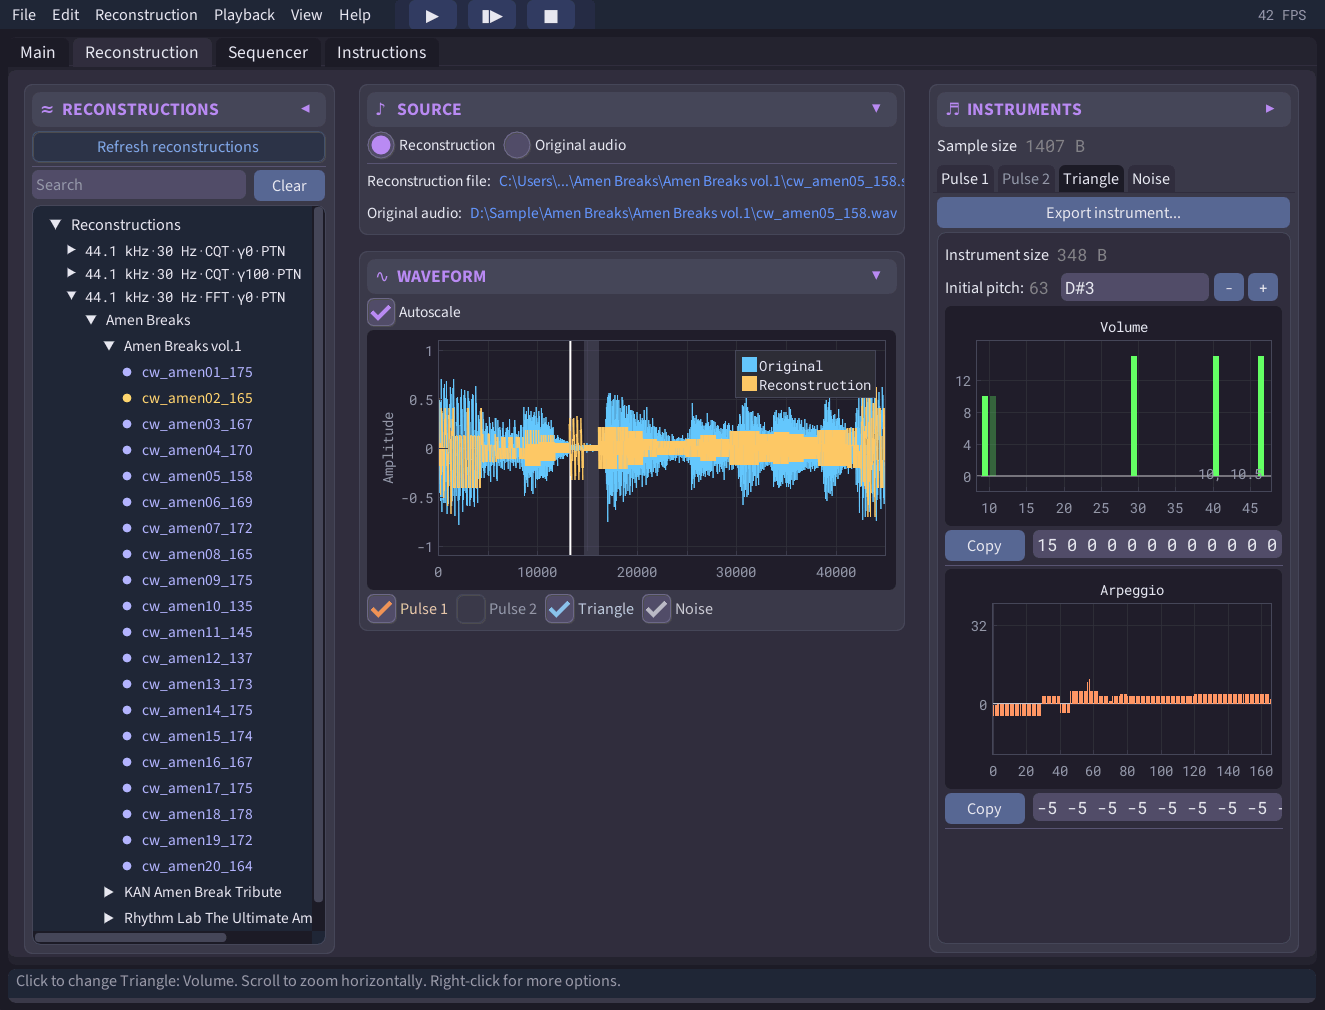
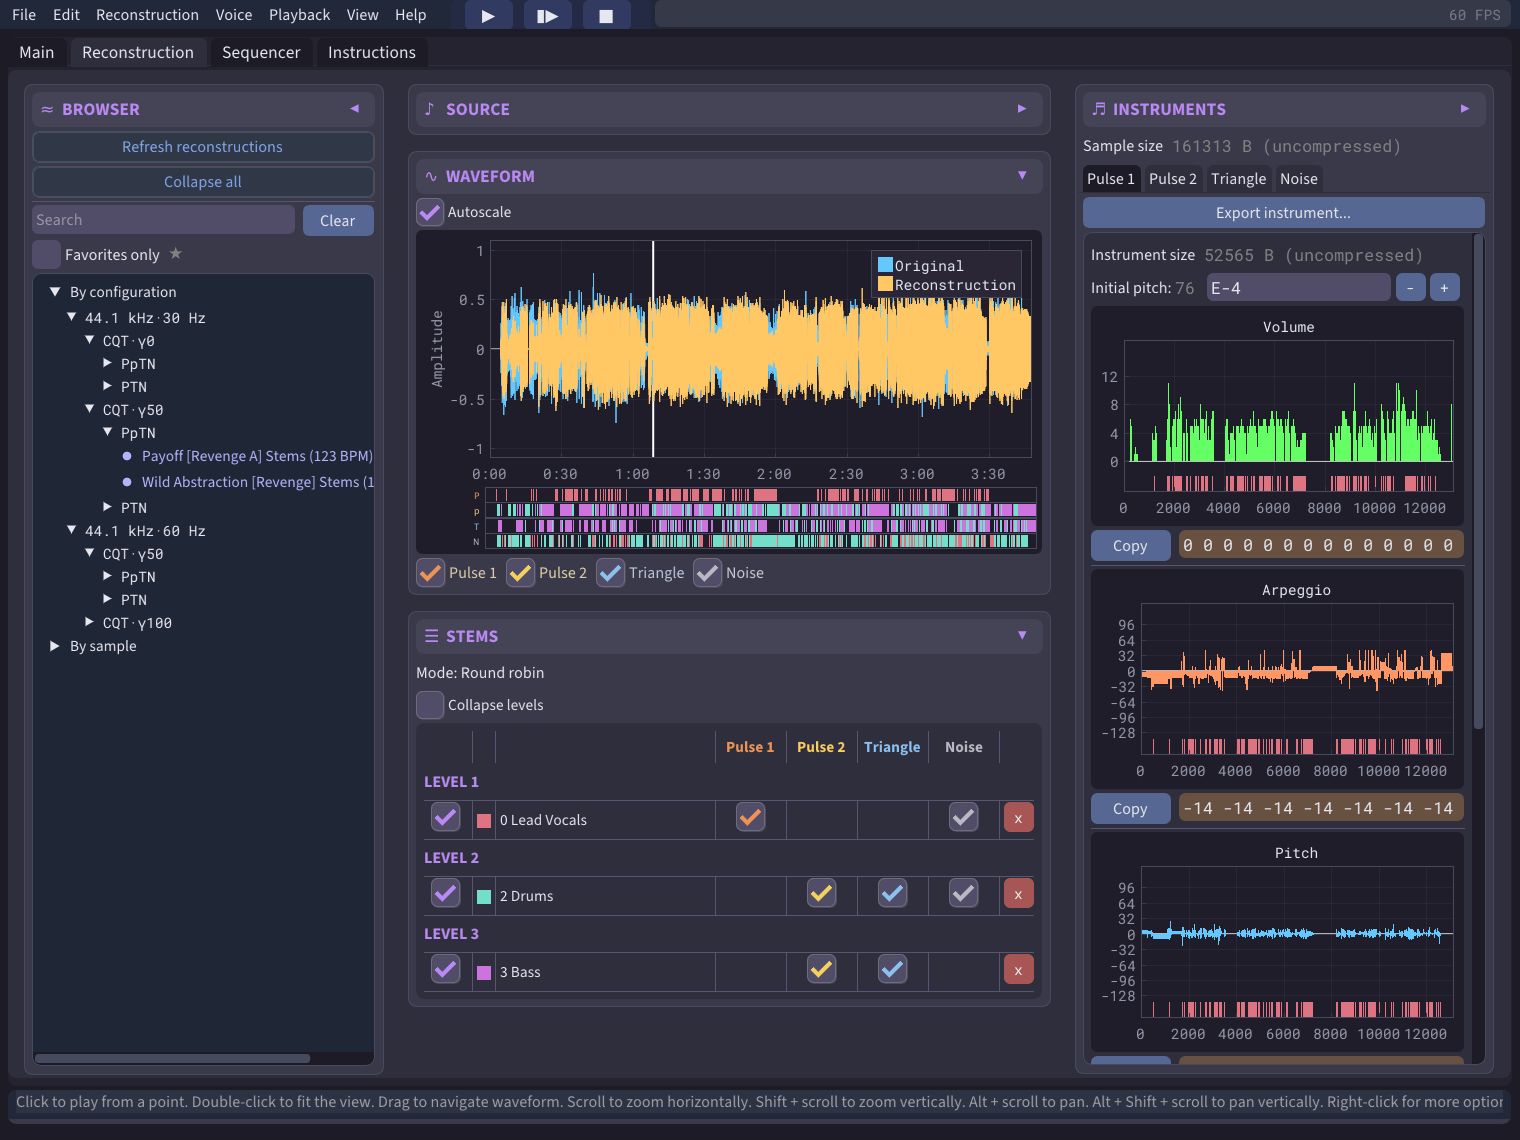
Updated: image

diff --git a/README.md b/README.md
@@ -14,7 +14,7 @@
 _SampleToNES_ (`sampletones`) is a desktop tool for people writing music for the NES 2A03 sound chip, mainly in [_FamiTracker_](http://famitracker.com/).
 
 <div align="center">
-    <img src="https://raw.githubusercontent.com/JakimPL/SampleToNES/main/docs/images/sampletones.png" alt="SampleToNES" width="640">
+    <img src="https://raw.githubusercontent.com/JakimPL/SampleToNES/main/docs/images/sampletones.png" alt="SampleToNES" width="1280">
 </div>
 
 The core idea is to approximate an audio sample using only the chip's basic oscillators — two pulse channels, a triangle, and noise — **without any DPCM samples**.
